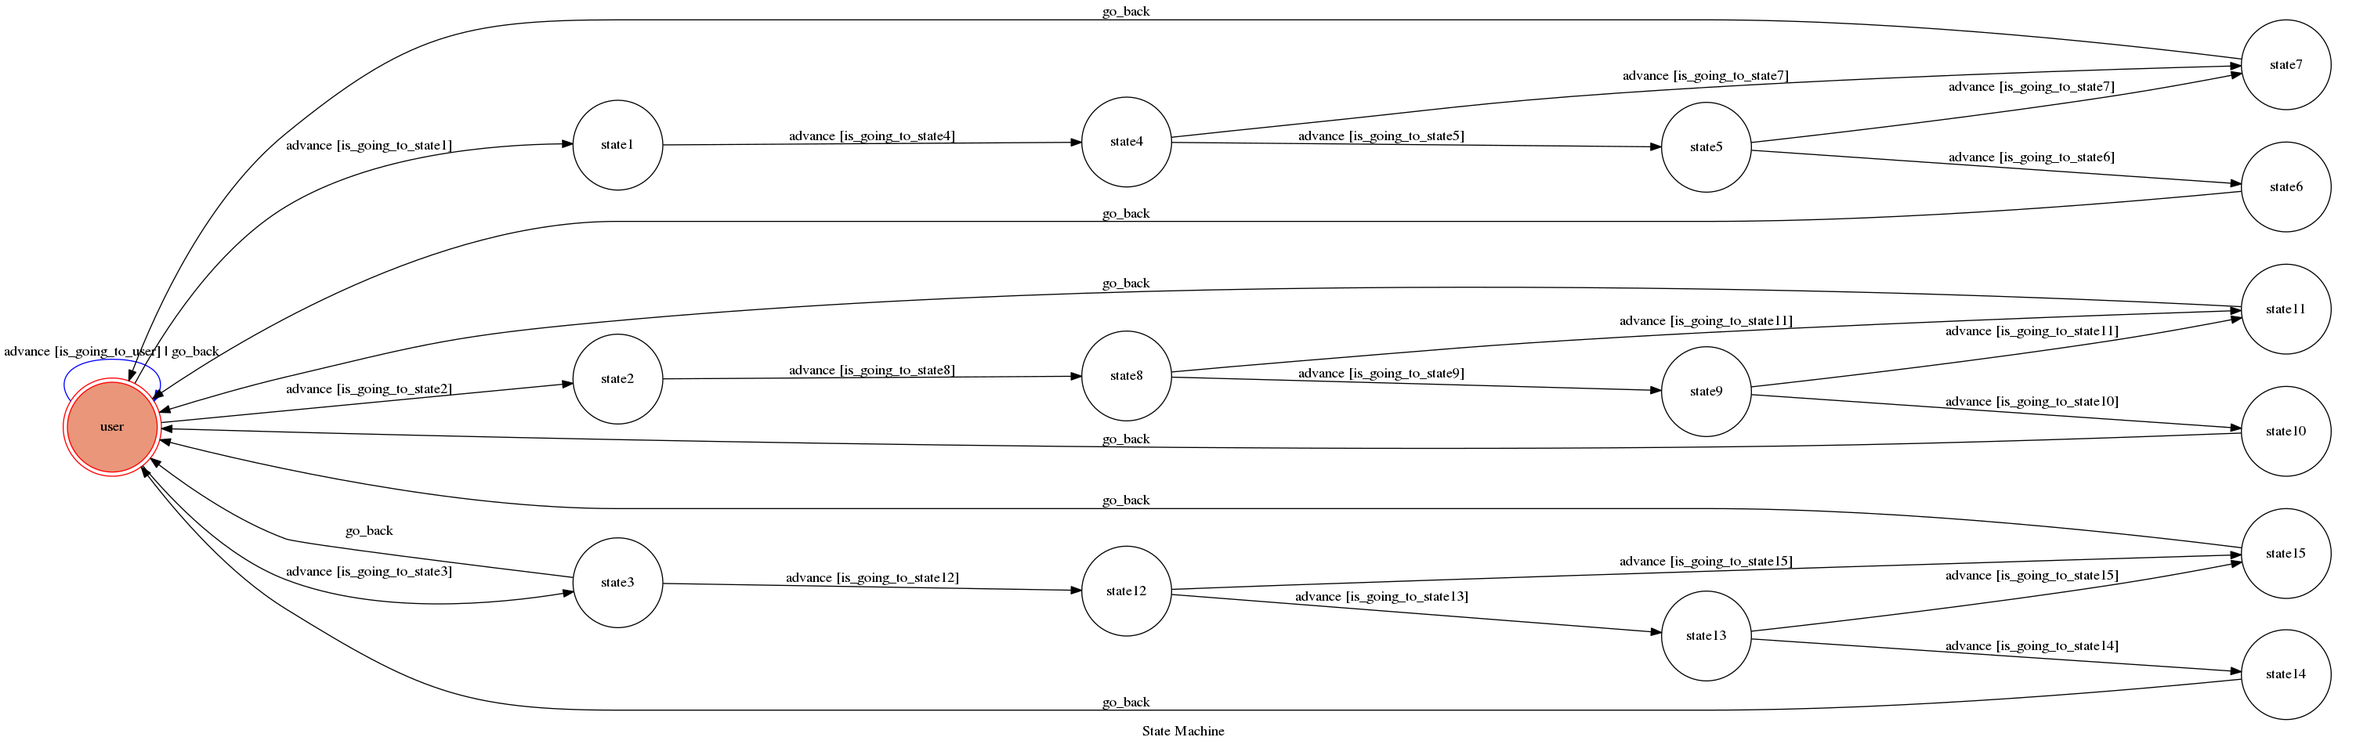
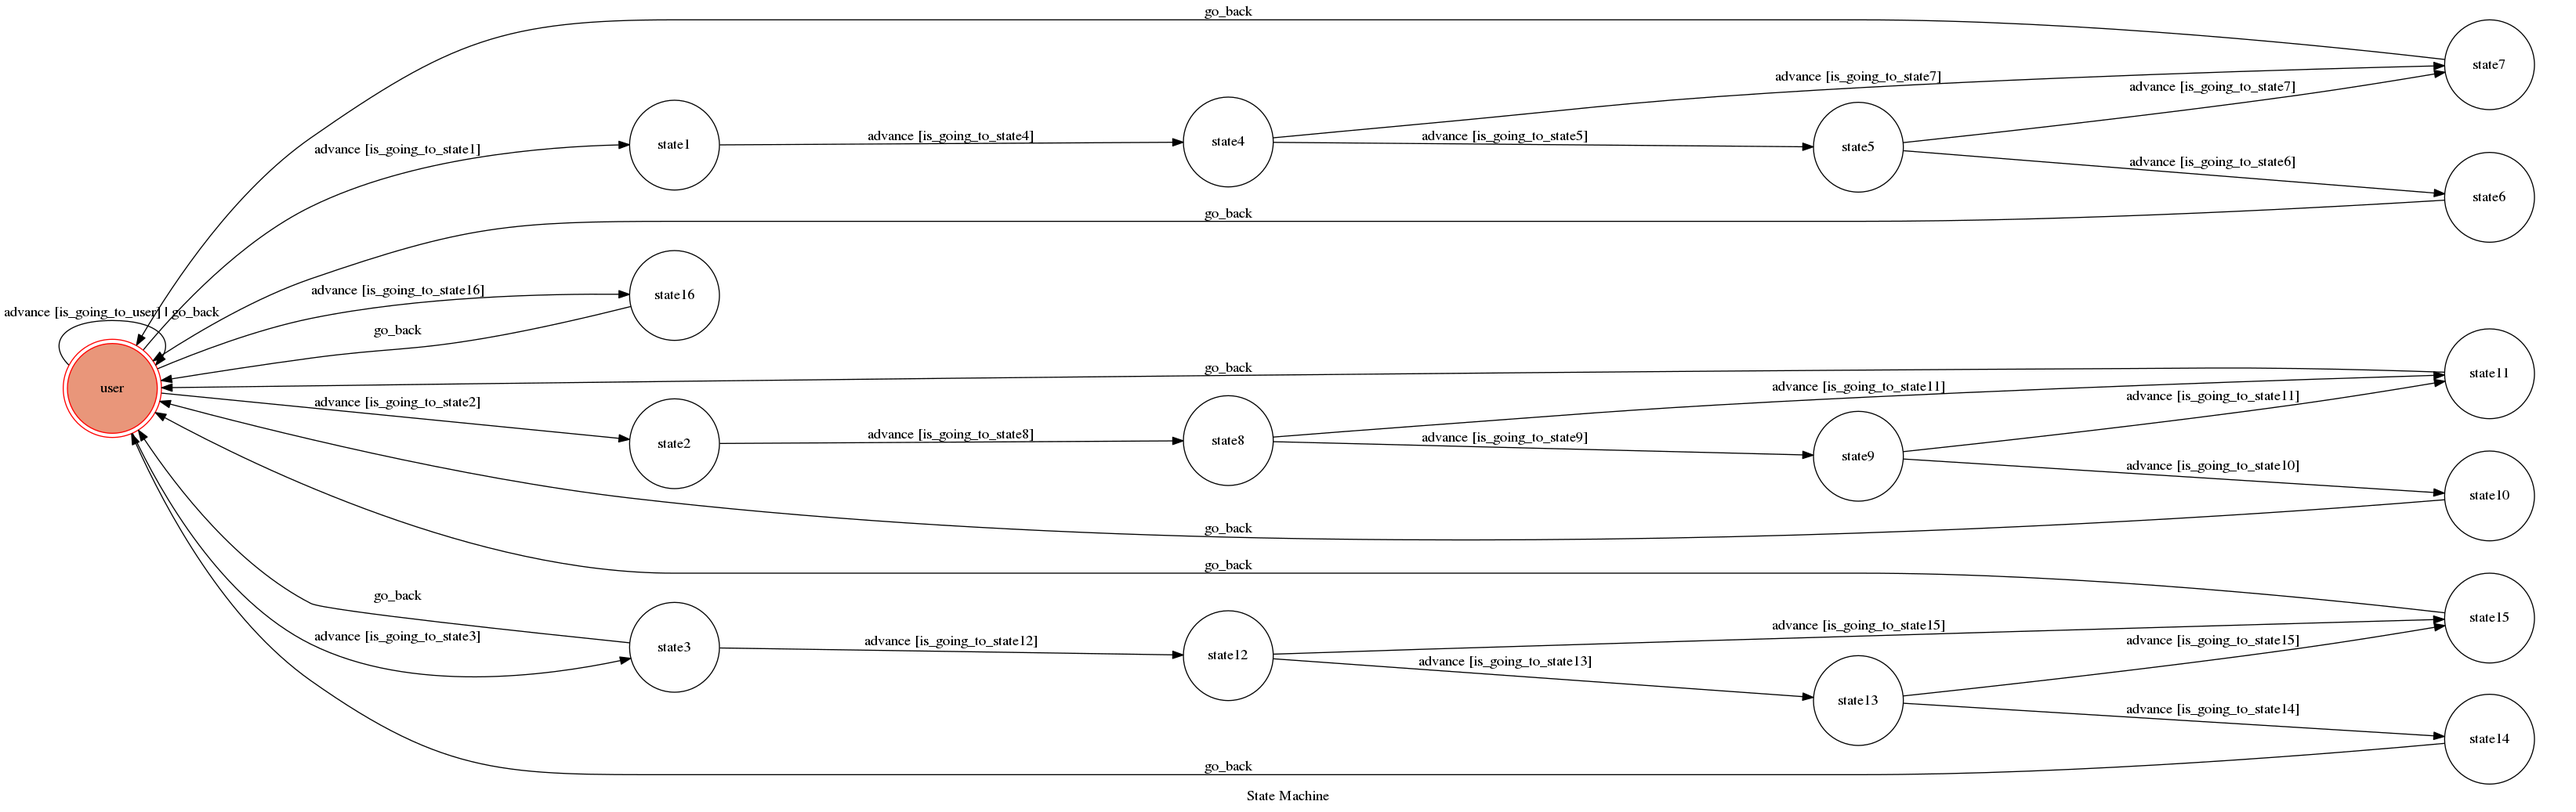
add web parsing

diff --git a/fsm.py b/fsm.py
@@ -1,13 +1,36 @@
 from transitions.extensions import GraphMachine
+from urllib.request import urlopen
+from bs4 import BeautifulSoup
 
-
+        
 class TocMachine(GraphMachine):
     def __init__(self, **machine_configs):
         self.machine = GraphMachine(
             model = self,
             **machine_configs            
-        )            
+        )                
+        
+    def is_going_to_state16(self, update):
+        text = update.message.text        
+        if text.lower() == '關於':
+            return text.lower() == '關於'
+        elif text.lower() == 'about':
+            return text.lower() == 'about'                      
+                    
+    def on_enter_state16(self, update):
+        update.message.reply_text("介紹(introduction)：")
+        html = urlopen("http://zh.asoiaf.wikia.com/wiki/%E5%86%B0%E4%B8%8E%E7%81%AB%E4%B9%8B%E6%AD%8C")           	       
+        background= BeautifulSoup(html.read())
+        #print(background)
+        ray=background.find('p')
+        update.message.reply_text(ray.text)
+       	#update.message.reply_text("KKK")       
+       	#update.message.reply_text("NNN")         
+        self.go_back(update)
 
+    def on_exit_state16(self, update):
+        print('Leaving state16')            
+                
     def is_going_to_user(self, update):
         text = update.message.text
         return text.lower() == 'hi'#'Stark'

diff --git a/app.py b/app.py
@@ -7,8 +7,8 @@ from flask import Flask, request, send_file
 from fsm import TocMachine
 
 
-API_TOKEN = '390914943:AAH7obcEfAP2ZmZX_wnrx9qjxjFKjhjItlY'#'329812777:AAHv2n0484wO_UvhVciw0t1jN9XrPT3PAPA'
-WEBHOOK_URL = 'https://e4dd839c.ngrok.io/hook'
+API_TOKEN = '333311890:AAFEkMtK5pbuoX1-Its73Kd0tpYtAMITT6o'#'329812777:AAHv2n0484wO_UvhVciw0t1jN9XrPT3PAPA'
+WEBHOOK_URL = 'https://746730eb.ngrok.io/hook'
 
 app = Flask(__name__)
 bot = telegram.Bot(token=API_TOKEN)
@@ -29,7 +29,8 @@ machine = TocMachine(
         'state12',
         'state13',
         'state14',
-        'state15'
+        'state15',
+        'state16'
     ],
     transitions=[
         {
@@ -138,6 +139,12 @@ machine = TocMachine(
             'conditions': 'is_going_to_state15'
         },
         {
+            'trigger': 'advance',
+            'source': 'user',
+            'dest': 'state16',
+            'conditions': 'is_going_to_state16'
+        },
+        {
             'trigger': 'go_back',
             'source': [ 
                 'user',
@@ -147,7 +154,8 @@ machine = TocMachine(
                 'state10',
                 'state11',
                 'state14',
-                'state15'
+                'state15',
+                'state16'
             ],
             'dest': 'user'
         }

diff --git a/README.md b/README.md
@@ -27,6 +27,8 @@ python3 app.py
 #### 一開始的init state：
 * 執行完code後，，可輸入"hi",系統將會回應使用者。
 
+* 可輸入"about"或是"關於",系統將會從網頁上擷取關於權力遊戲的介紹給使用者。
+
 * 輸入"族語"、"演員" 或是 "影音"，
   也可以輸入英文的"family language"、"actor" 或是 "video"，
   輸入完後將會進入相對應的state中。
